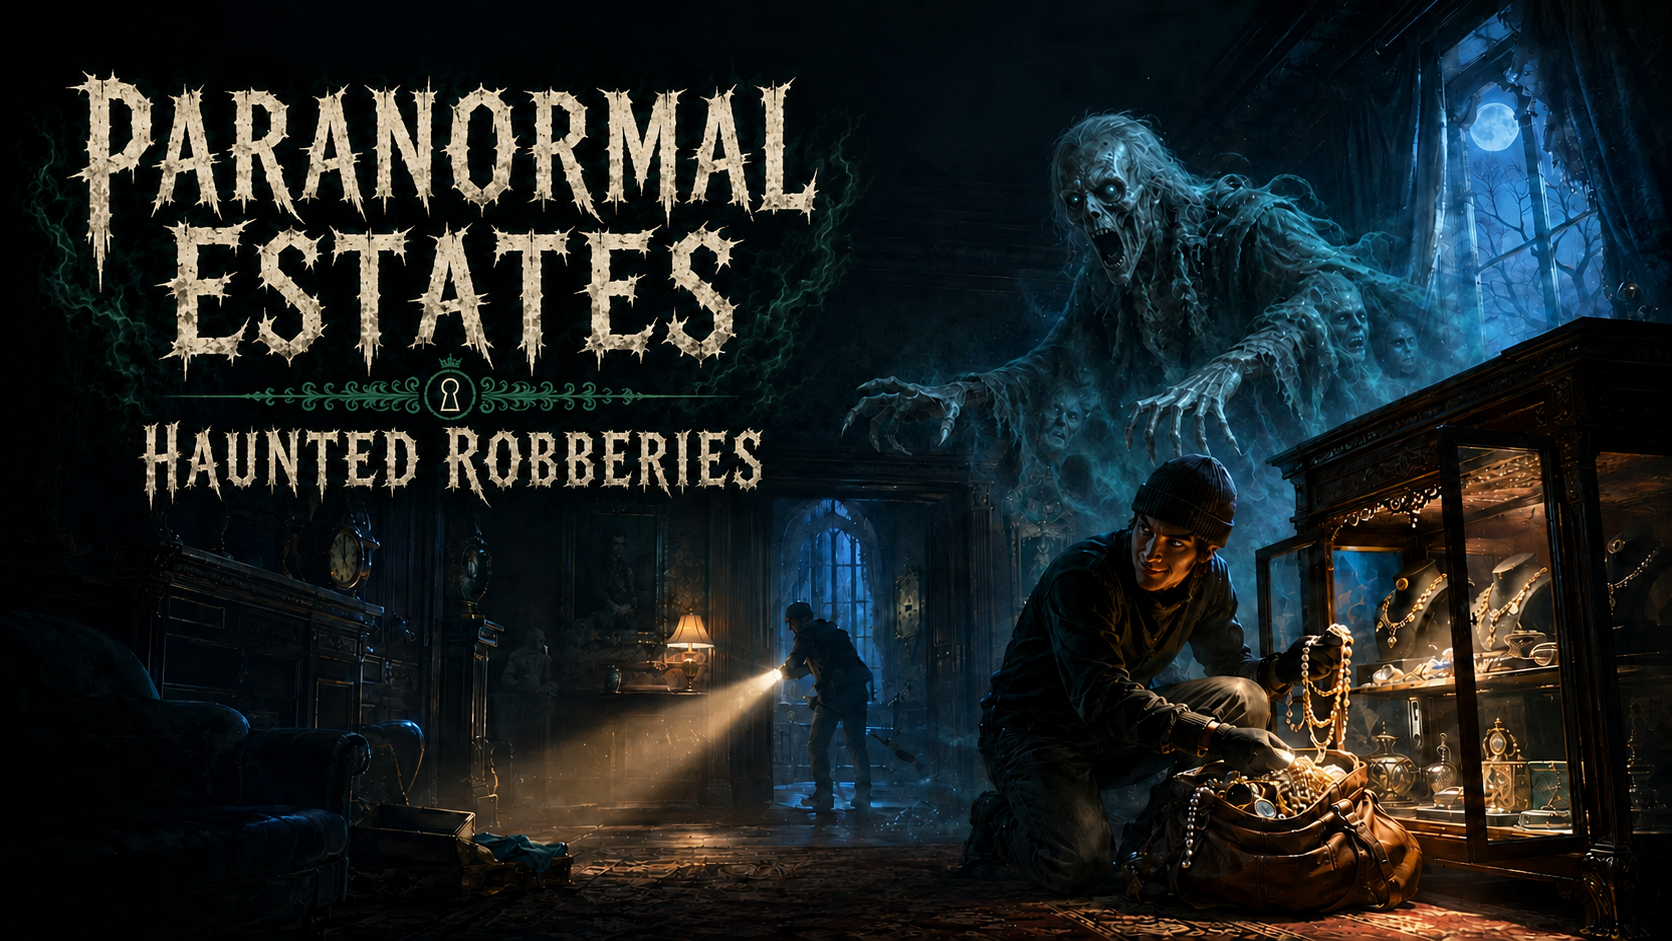
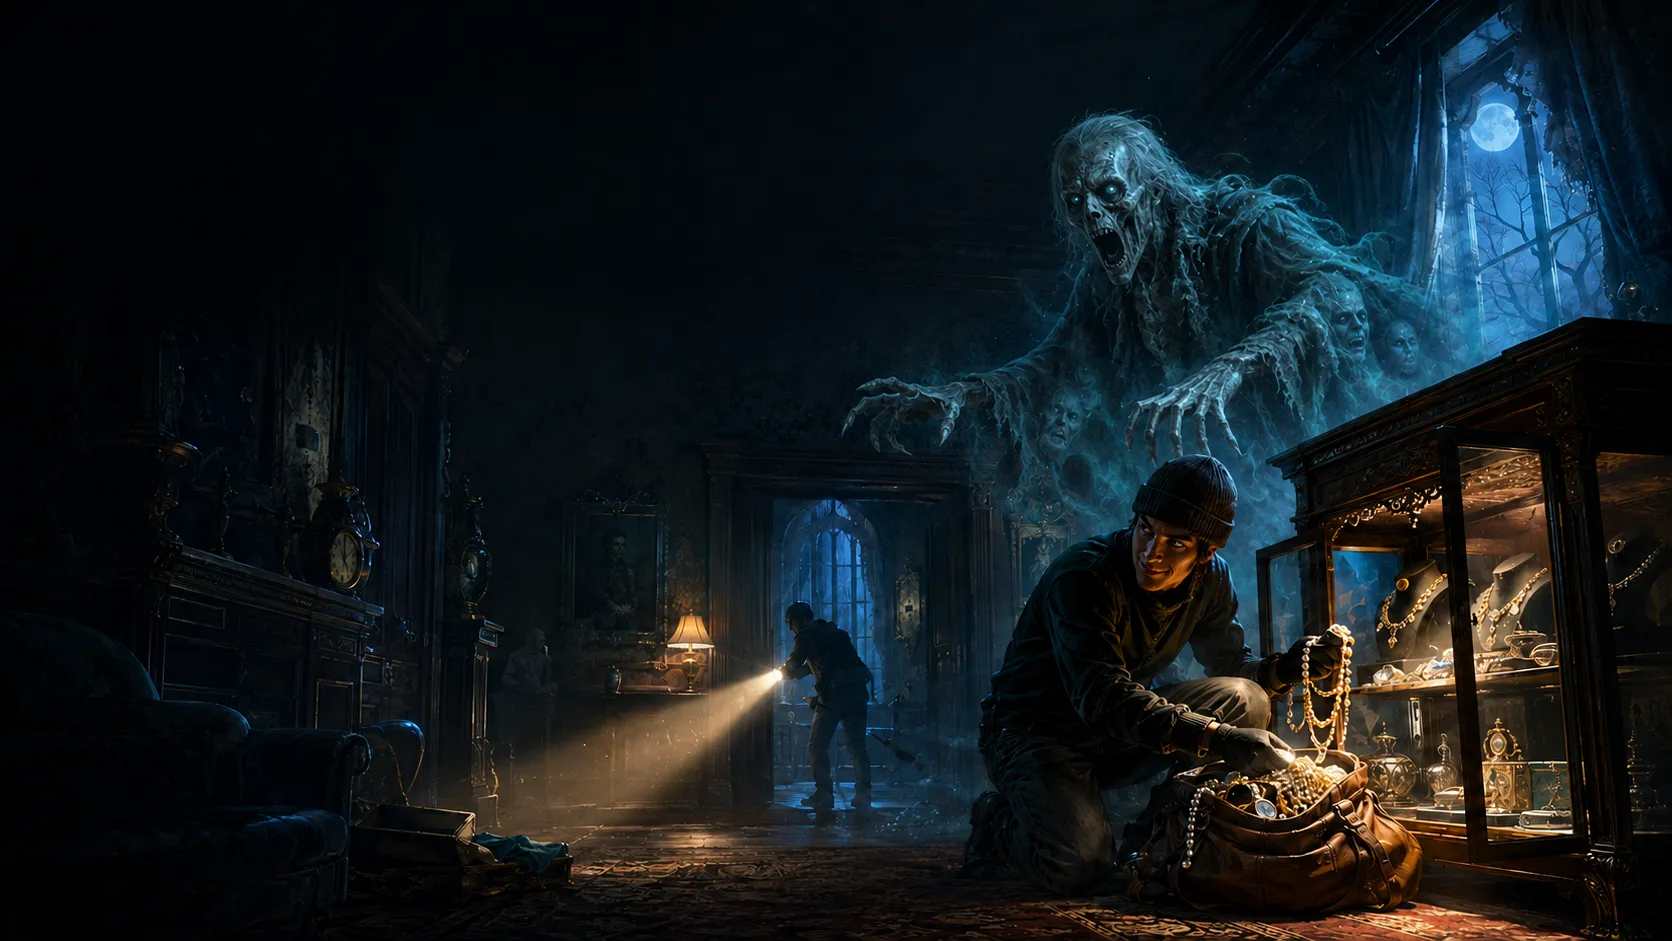
Quiiiiiiet updates

diff --git a/haunted-heists.html b/haunted-heists.html
@@ -38,7 +38,7 @@
 <div class="hh-hero-inner">
 <div class="hh-hero-copy">
 <p class="eyebrow spectral">A co-op horror extraction game</p>
-<h1>Haunted <span>Heists</span></h1>
+<h1>Paranormal Estates: <span>Haunted Robberies</span></h1>
 <p class="hh-hook">
                     Break in. Take everything worth stealing. Get out before your greed wakes the house.
                 </p>
